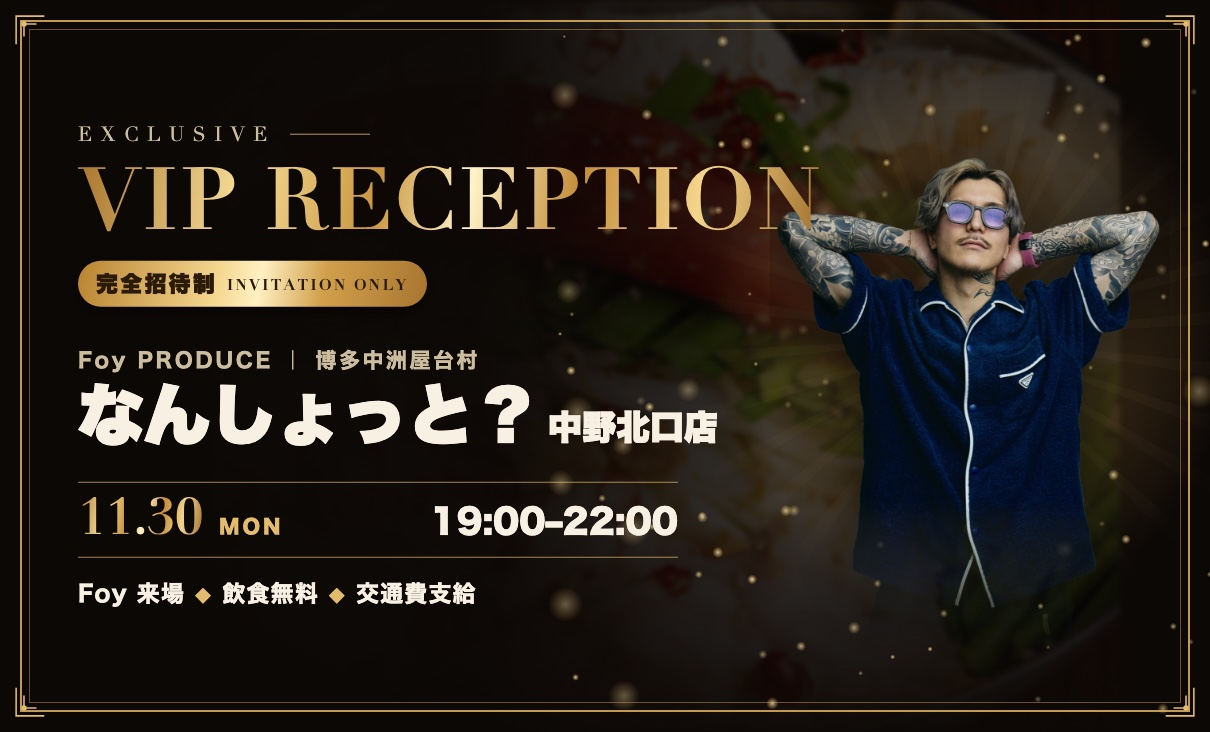
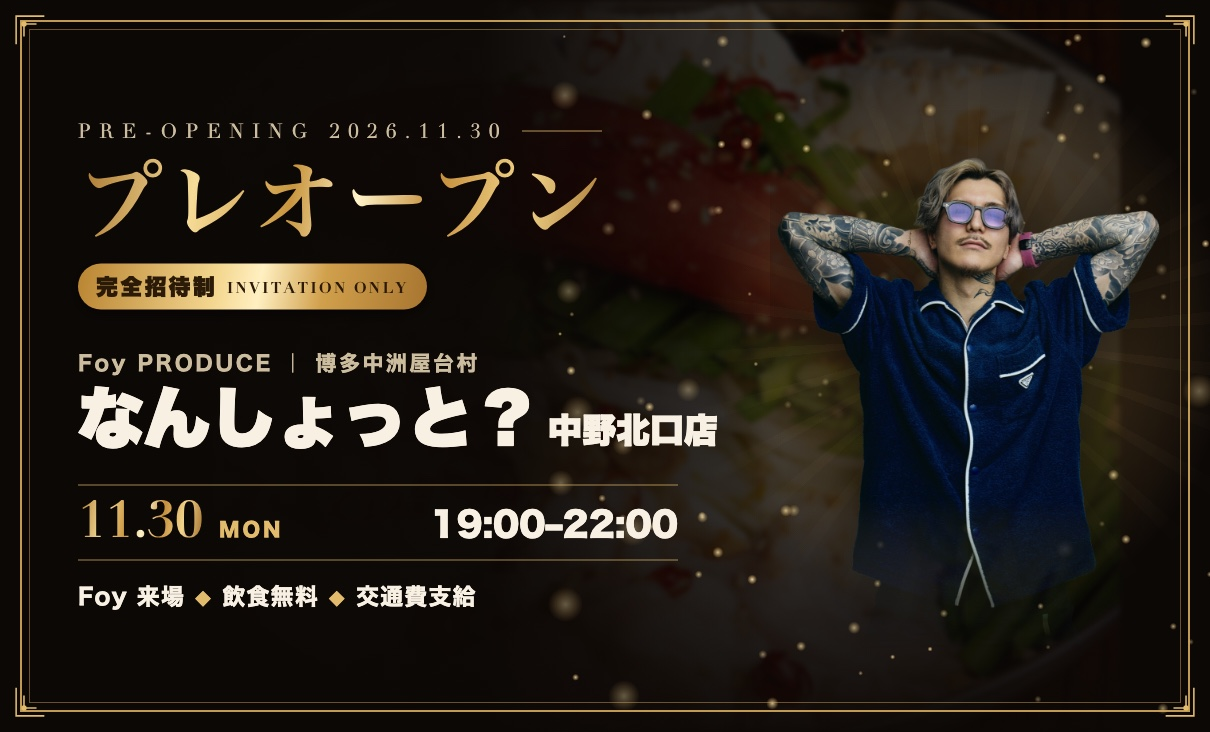
VIPレセプションの表記をプレオープンに統一し、案内ページのトップを詰めて調整

diff --git a/reception/index.html b/reception/index.html
@@ -5,10 +5,10 @@
 <meta name="viewport" content="width=device-width, initial-scale=1, viewport-fit=cover">
 <meta name="robots" content="noindex, nofollow">
 <meta name="theme-color" content="#0c0806">
-<title>なんしょっと？中野北口店 VIPレセプションのご案内</title>
-<meta name="description" content="2026年11月30日（月）19:00〜22:00。Foyプロデュース「博多中洲屋台村 なんしょっと？ 中野北口店」完全招待制のVIPレセプションのご案内です。">
+<title>なんしょっと？中野北口店 プレオープンのご案内</title>
+<meta name="description" content="2026年11月30日（月）19:00〜22:00。Foyプロデュース「博多中洲屋台村 なんしょっと？ 中野北口店」完全招待制のプレオープンのご案内です。">
 <meta property="og:type" content="website">
-<meta property="og:title" content="VIP RECEPTION｜なんしょっと？中野北口店">
+<meta property="og:title" content="プレオープンのご案内｜なんしょっと？中野北口店">
 <meta property="og:description" content="11.30（月）19:00〜22:00 完全招待制。Foy来場・飲食無料・交通費支給。">
 <meta property="og:url" content="https://breedclub.github.io/nanshotto-nakano/reception/">
 <meta property="og:image" content="https://breedclub.github.io/nanshotto-nakano/reception/img/og.jpg">
@@ -45,13 +45,13 @@
 
   /* ===== ヒーロー ===== */
   .hero { position: relative; overflow: hidden; isolation: isolate; }
-  .hero-bg { position: absolute; inset: 0; z-index: -3; background: url(img/nabe.jpg) center 60% / cover; filter: brightness(.3) saturate(1.1) blur(3px); transform: scale(1.06); }
+  .hero-bg { position: absolute; inset: 0; z-index: -3; background: url(img/nabe.jpg) 42% center / cover; filter: brightness(.34) saturate(1.1) blur(3px); transform: scale(1.06); }
   .hero-tone { position: absolute; inset: 0; z-index: -2;
     background:
-      radial-gradient(ellipse 34% 70% at 80% 55%, rgba(232,176,86,.45), rgba(232,176,86,0) 72%),
-      linear-gradient(90deg, rgba(12,8,6,.92) 0%, rgba(12,8,6,.55) 55%, rgba(12,8,6,.25) 100%),
-      linear-gradient(180deg, transparent 70%, var(--bg) 100%); }
-  .rays { position: absolute; left: 80%; top: 55%; width: 900px; height: 900px; z-index: -2; transform: translate(-50%, -50%);
+      radial-gradient(ellipse 30% 75% at 82% 50%, rgba(232,176,86,.5), rgba(232,176,86,0) 72%),
+      linear-gradient(90deg, rgba(8,5,2,.9) 0%, rgba(8,5,2,.72) 50%, rgba(8,5,2,.3) 100%),
+      linear-gradient(180deg, rgba(8,5,2,.25) 0%, transparent 40%, rgba(8,5,2,.56) 100%); }
+  .rays { position: absolute; left: 83%; top: 46%; width: 760px; height: 760px; z-index: -2; transform: translate(-50%, -50%);
     background: repeating-conic-gradient(from 0deg, rgba(255,214,140,.07) 0deg 3deg, transparent 3deg 12deg);
     -webkit-mask-image: radial-gradient(circle, #000 0%, transparent 40%); mask-image: radial-gradient(circle, #000 0%, transparent 40%);
     animation: spin 120s linear infinite; }
@@ -75,19 +75,18 @@
   .hero-frame { position: absolute; inset: 12px; border: 1.5px solid rgba(214,170,90,.8); pointer-events: none; z-index: 1; }
   .hero-frame::after { content: ""; position: absolute; inset: 6px; border: 1px solid rgba(214,170,90,.35); }
 
-  .hero { height: 238px; }
-  .hero-head { position: relative; z-index: 2; padding: 30px 0 0 30px; }
-  .eyebrow { display: inline-flex; align-items: center; gap: 10px; font-size: 11px; letter-spacing: .42em; color: var(--muted); }
-  .eyebrow::after { content: ""; width: 34px; height: 1px; background: var(--gold); opacity: .8; }
-  .hero h1 { margin: 4px 0 0; font-size: 40px; line-height: .98; font-weight: 700; letter-spacing: .02em; filter: drop-shadow(0 3px 10px rgba(0,0,0,.85)); }
-  .hero h1 span { display: block; }
-  .pill { display: inline-flex; align-items: center; gap: 8px; margin-top: 14px; padding: 4px 12px; border-radius: 999px; font-size: 13px; font-weight: 900; letter-spacing: .1em; color: #2a1a07;
-    background: linear-gradient(100deg, #b98431, #f4d790 40%, #fff0c2 52%, #d1a04c 70%, #a87530); box-shadow: 0 4px 14px rgba(0,0,0,.5); }
-  .pill small { font-size: 9px; letter-spacing: .14em; font-weight: 700; }
-  .foy { position: absolute; right: -4px; bottom: 0; height: 214px; width: auto; z-index: 1;
-    -webkit-mask-image: linear-gradient(180deg, #000 70%, transparent 100%); mask-image: linear-gradient(180deg, #000 70%, transparent 100%);
-    filter: drop-shadow(0 0 24px rgba(0,0,0,.7)); }
-  @media (min-width: 560px) { .hero { height: 300px; } .hero-head { padding: 44px 0 0 calc(50% - 280px); } .hero h1 { font-size: 64px; } .foy { height: 280px; right: calc(50% - 300px); } }
+  .hero { height: 156px; }
+  .hero-frame { inset: 11px 12px; border-width: 1px; }
+  .hero-head { position: absolute; z-index: 2; left: 28px; top: 34px; width: 225px; }
+  .eyebrow { display: flex; align-items: center; gap: 8px; font-size: 10px; letter-spacing: 3px; color: var(--gold); white-space: nowrap; }
+  .hero h1 { margin: 9px 0 0; font-family: "Hiragino Mincho ProN", "Yu Mincho", serif; font-size: 34px; font-weight: 700; line-height: 1.05; letter-spacing: .06em; filter: drop-shadow(0 2px 10px rgba(0,0,0,.85)); white-space: nowrap; }
+  .tagline { display: flex; align-items: baseline; gap: 8px; margin-top: 13px; font-size: 14px; font-weight: 700; letter-spacing: .12em; color: var(--ink); white-space: nowrap; }
+  .tagline::before { content: ""; align-self: center; width: 6px; height: 6px; transform: rotate(45deg); background: var(--gold); }
+  .tagline small { font-family: "Didot", "Bodoni 72", serif; font-size: 9px; letter-spacing: 1.8px; color: var(--muted); font-weight: 700; }
+  .foy { position: absolute; right: 3px; bottom: -4px; height: 151px; width: auto; z-index: 1;
+    -webkit-mask-image: linear-gradient(180deg, #000 74%, transparent 100%); mask-image: linear-gradient(180deg, #000 74%, transparent 100%);
+    filter: drop-shadow(0 0 22px rgba(0,0,0,.7)); }
+  @media (min-width: 560px) { .hero { height: 200px; } .hero-head { left: calc(50% - 280px); top: 44px; width: 340px; } .hero h1 { font-size: 50px; } .foy { height: 196px; right: calc(50% - 300px); } }
 
   /* 店名と日時（INVITATION内） */
   .headline { text-align: center; margin-top: 18px; }
@@ -163,9 +162,9 @@
   <div class="hero-frame" aria-hidden="true"></div>
 
   <div class="hero-head">
-    <div class="eyebrow serif">EXCLUSIVE</div>
-    <h1 class="serif foil"><span>VIP</span><span>RECEPTION</span></h1>
-    <div class="pill">完全招待制<small class="serif">INVITATION ONLY</small></div>
+    <div class="eyebrow serif">PRE-OPENING&nbsp;2026.11.30</div>
+    <h1 class="foil">プレオープン</h1>
+    <div class="tagline">完全招待制<small>INVITATION ONLY</small></div>
   </div>
   <img class="foy" src="img/foy.png" alt="プロデューサーのFoy" width="900" height="1255">
 </header>
@@ -179,11 +178,11 @@
       <div class="date"><span class="d serif foil">11.30</span><span class="w">MON</span><span class="t">19:00–22:00</span></div>
       <div class="perks3">Foy 来場<i>◆</i>飲食無料<i>◆</i>交通費支給</div>
     </div>
-    <p class="lead" style="margin-top:22px">グランドオープンに先立ち、<br>著名人・グルメインフルエンサーの方を<br>限定でお招きするレセプションです。<br>当日はプロデューサーのFoyも参加します。</p>
+    <p class="lead" style="margin-top:22px">グランドオープンに先立ち、<br>著名人・グルメインフルエンサーの方を<br>限定でお招きするプレオープンです。<br>当日はプロデューサーのFoyも参加します。</p>
   </section>
 
   <section>
-    <h2 class="sec-title"><span class="en serif foil">VIP PRIVILEGES</span><span class="ja">VIPゲスト特典</span></h2>
+    <h2 class="sec-title"><span class="en serif foil">PRIVILEGES</span><span class="ja">ゲスト特典</span></h2>
     <div class="perks">
       <div class="card perk main"><span class="no serif foil">01</span><div><b>店内のSNS撮影は自由</b><span>当日はみなさまのコンテンツの撮影にご利用いただけます</span></div></div>
       <div class="card perk main"><span class="no serif foil">02</span><div><b>お食事・ドリンクの無料提供</b></div></div>
@@ -236,7 +235,7 @@
 </main>
 
 <footer class="wrap">
-  <span class="serif foil">VIP RECEPTION</span>
+  <span class="foil" style="font-family:'Hiragino Mincho ProN',serif;font-weight:700">プレオープン</span>
   博多中洲屋台村 なんしょっと？ 中野北口店<br>PRODUCED BY Foy
 </footer>
 

diff --git a/contact/index.html b/contact/index.html
@@ -201,7 +201,7 @@
     </div>
     <p class="hint" id="inviteHint">相手と送る人を選ぶと、本文の〇〇が置き換わります。本文はここで直してからコピーできます。</p>
     <div class="banner" id="bannerBox" hidden>
-      <img id="bannerImg" alt="VIPレセプションの案内バナー">
+      <img id="bannerImg" alt="プレオープンの案内バナー">
       <div class="actions">
         <button type="button" id="shareImgBtn">画像を保存・共有</button>
       </div>
@@ -401,7 +401,7 @@
 
 突然のご連絡失礼します。NOEZ FOXXの{from}です。
 
-Foyがプロデュースする居酒屋「博多中洲屋台村 なんしょっと？ 中野北口店」のオープンに先立ち、著名人・インフルエンサーの方限定のVIPレセプションを開きます。ぜひ{to}さんをご招待したく、ご連絡しました。
+Foyがプロデュースする居酒屋「博多中洲屋台村 なんしょっと？ 中野北口店」のオープンに先立ち、著名人・インフルエンサーの方限定のプレオープンを開きます。ぜひ{to}さんをご招待したく、ご連絡しました。
 
 日時：11月30日（月）19:00〜22:00
 場所：中野（東京都中野区中野5-56-14 岡田ビル2F）
@@ -477,7 +477,7 @@ https://breedclub.github.io/nanshotto-nakano/reception/
   $("shareImgBtn").addEventListener("click", async () => {
     try {
       const blob = await (await fetch(BANNER)).blob();
-      const file = new File([blob], "なんしょっと_VIPレセプション.jpg", { type: blob.type || "image/jpeg" });
+      const file = new File([blob], "なんしょっと_プレオープン.jpg", { type: blob.type || "image/jpeg" });
       if (navigator.canShare && navigator.canShare({ files: [file] })) {
         await navigator.share({ files: [file] });
         return;
